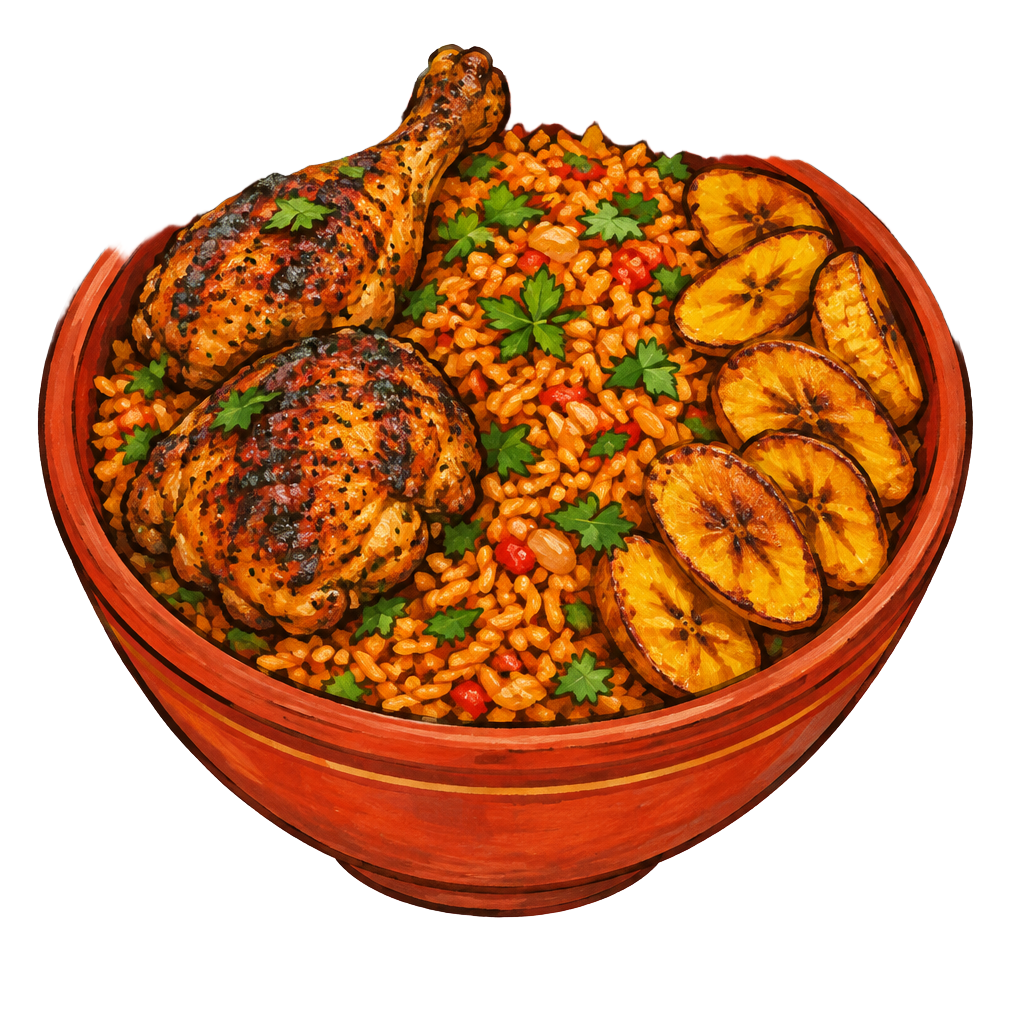
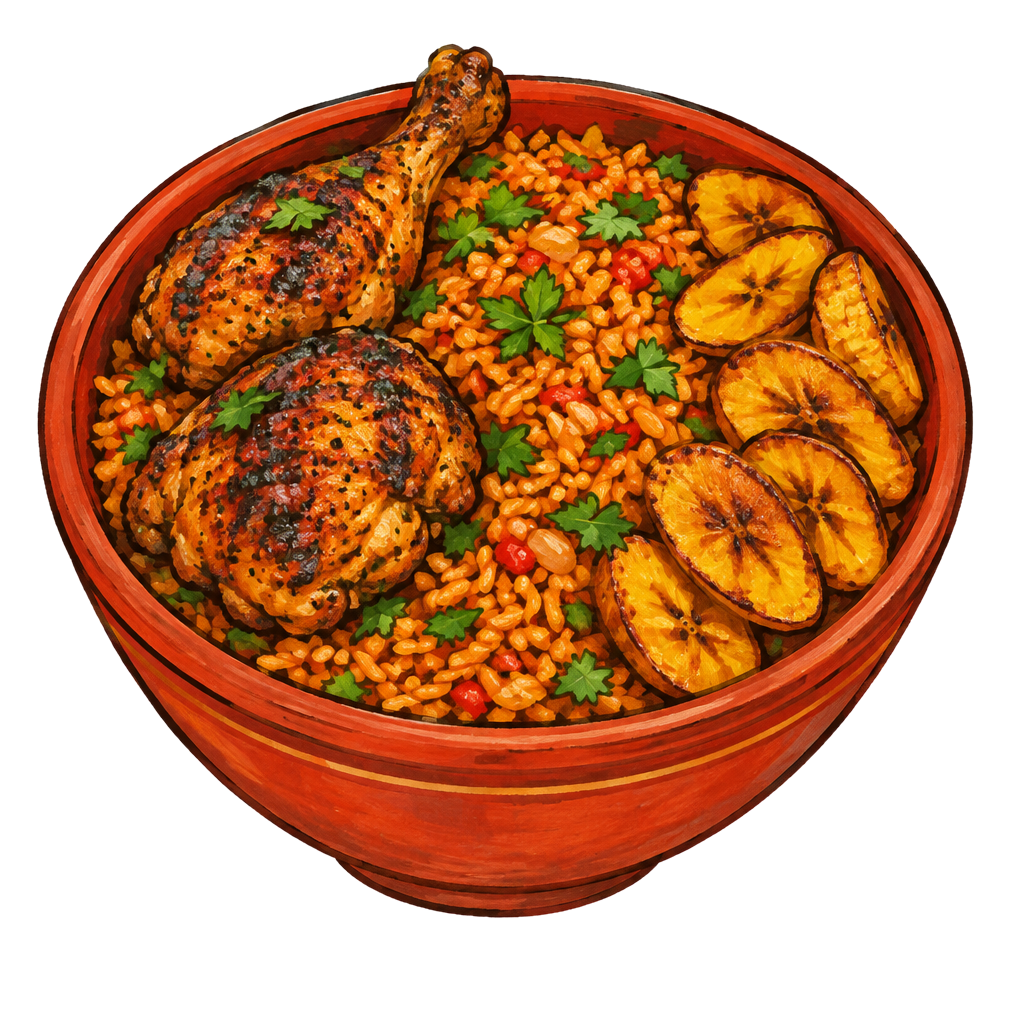
Fix jollof illustration cut-out so the whole bowl shows

diff --git a/CHANGELOG.md b/CHANGELOG.md
@@ -39,3 +39,8 @@
 - Save heart on cards and recipe pages, "Saved (n)" header button and `/saved`, stored in `localStorage` (wrapped in try/catch).
 - Header CTA is now "Share your pot →" (to the submission form); the hero CTA is "See wetin dey pot →".
 - `npm run typecheck` now regenerates Next's route types first.
+
+### Fixes
+
+- Jollof illustration: the original background cut-out had sliced off the top of the bowl's rim. Rebuilt its transparency from the white background so the whole bowl shows (the loose pepper and leaf stay out, as in the reference).
+- Footer now reads "From Sophia Ahuoyiza, with love ♡" with a contact link to sophia@ahuoyiza.com.
